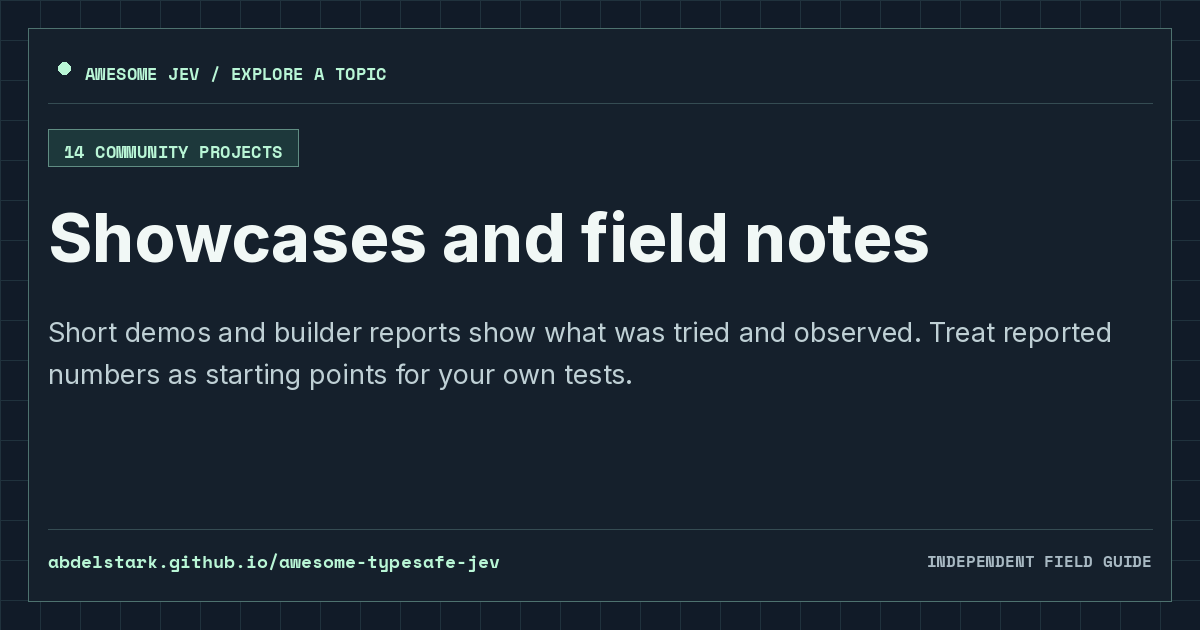
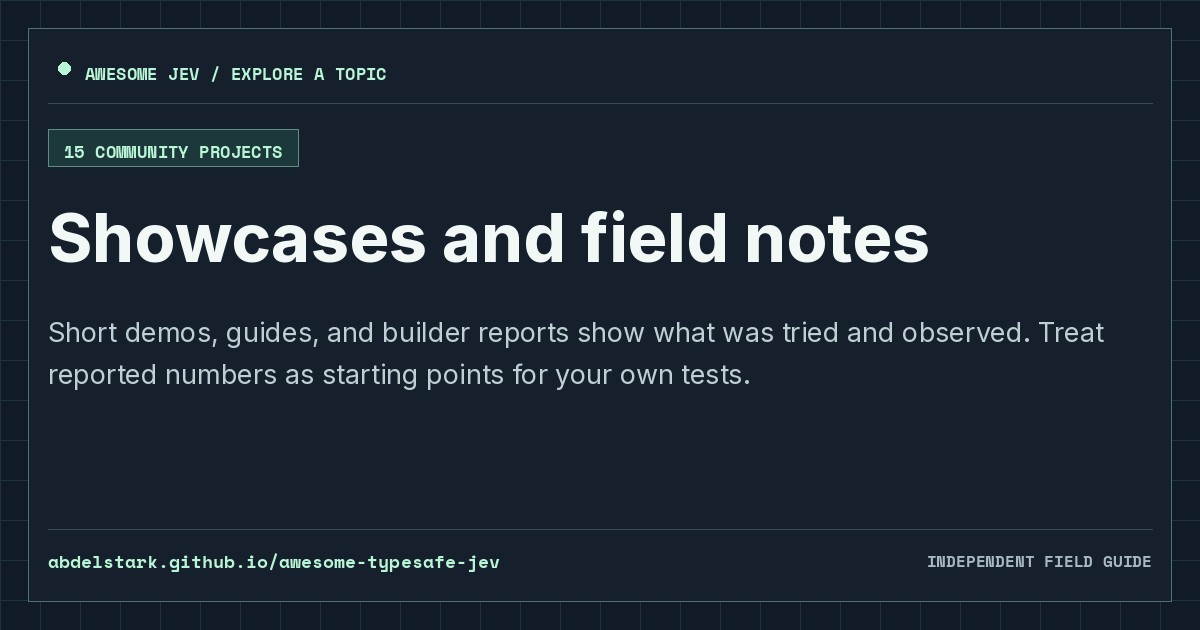
Integrate reviewed community project PRs

Changed region(s): [[0.0308, 0.573, 0.6167, 0.6333], [0.185, 0.5127, 0.925, 0.5429]]

diff --git a/projects/site-chriswijnia-com-lab-jevvie.html b/projects/site-chriswijnia-com-lab-jevvie.html
@@ -1,20 +1,16 @@
 ---
 layout: "resource"
-title: "jev-skip | Awesome Jev"
-description: "Browser extension that reads the YouTube caption track and paints a per-segment sponsor probability on the seek bar before the intro ends, with no crowd database; reports catching 77% of SponsorBlock's sponsor seconds across 23 videos at $0.0008 a video."
-permalink: "/projects/gh-valentynkit-jev-skip/"
-resource_name: "jev-skip"
-resource_slug: "gh-valentynkit-jev-skip"
-resource_url: "https://github.com/valentynkit/jev-skip"
-description_markdown: "Browser extension that reads the YouTube caption track and paints a per-segment sponsor probability on the seek bar before the intro ends, with no crowd database; reports catching 77% of SponsorBlock's sponsor seconds across 23 videos at $0.0008 a video."
+title: "Jevvie | Awesome Jev"
+description: "Page companion: the page offers its actions as WebMCP tools, and one Jev Choice picks the action a visitor's request means (with a Choice per argument asked alongside), asking back when the top two are close; a voxel character then hops to the button and does it (source). The visitor's request and offered tool descriptions go to Vercel AI Gateway or TypeSafe for the judgment."
+permalink: "/projects/site-chriswijnia-com-lab-jevvie/"
+resource_name: "Jevvie"
+resource_slug: "site-chriswijnia-com-lab-jevvie"
+resource_url: "https://chriswijnia.com/lab/jevvie"
+description_markdown: "Page companion: the page offers its actions as WebMCP tools, and one Jev `Choice` picks the action a visitor's request means (with a `Choice` per argument asked alongside), asking back when the top two are close; a voxel character then hops to the button and does it ([source](https://github.com/cwdx/jevvie)). The visitor's request and offered tool descriptions go to Vercel AI Gateway or TypeSafe for the judgment."
 category_name: "Browser agents"
 category_id: "browser-agents"
-social_image: "/assets/cards/gh-valentynkit-jev-skip.png"
+social_image: "/assets/cards/site-chriswijnia-com-lab-jevvie.png"
 related:
-  - name: "Jevvie"
-    permalink: "/projects/site-chriswijnia-com-lab-jevvie/"
-    description: "Page companion: the page offers its actions as WebMCP tools, and one Jev Choice picks the action a visitor's request means (with a Choice per argument asked alongside), asking back when the top two are close; a voxel character then hops to the button and does it (source). The visitor's request and offered tool descriptions go to Vercel AI Gateway or TypeSafe for the judgment."
-    image: "/assets/cards/site-chriswijnia-com-lab-jevvie.png"
   - name: "PlotVeil"
     permalink: "/projects/gh-dearest-plotveil/"
     description: "Chrome extension (Manifest V3) that covers a YouTube comment while one Jev Noul question decides whether it reveals a concrete plot event, fate, ending or result of the video being watched or of any other title the user chose to protect; the typed question lives in the extension, application code owns the 0.5 / 0.7 / 0.85 threshold, and a failed or quota-rejected check leaves the comment covered rather than revealed. Requests go through the author's Cloudflare Worker, which forwards comment text, video title and channel but not the anonymous install ID; the committed evaluation is a 10-sample hand-written regression set across English, Chinese, Japanese and prompt injection, not a production accuracy measurement. Install PlotVeil."
@@ -23,4 +19,8 @@ related:
     permalink: "/projects/gh-sedum-dev-sedum/"
     description: "Experimental Playwright test tool: in goal mode one Jev Choice per turn picks the next operation (click, type, done or blocked) and its target among the page's elements, authored plain-English steps use a Choice to resolve each element, and a test passes only when a separate authored verify claim clears two Jev Nouls (holds, contradicted) against configurable thresholds. It sends step sentences, bounded element descriptions and page text to TypeSafe or a compatible endpoint you configure (opt-in vision sends screenshots), and its docs note that the scores are not yet calibrated against real pass rates."
     image: "/assets/cards/gh-sedum-dev-sedum.png"
+  - name: "unclutter"
+    permalink: "/projects/gh-kitze-unclutter/"
+    description: "Chrome/Firefox extension that uses Jev through TypeSafe or Vercel AI Gateway to classify bounded page-element snippets, then stores reusable local hiding rules by page template. Paid analysis is manual by default; optional on-visit analysis sends snippets to the selected provider. The API key stays in unencrypted local extension storage."
+    image: "/assets/cards/gh-kitze-unclutter.png"
 ---

diff --git a/projects/gh-xiaooolong-vev.html b/projects/gh-xiaooolong-vev.html
@@ -1,0 +1,26 @@
+---
+layout: "resource"
+title: "Vev | Awesome Jev"
+description: "Independent Jev-style decision server with vision input, fine-tuned from Qwen3.5 4B and 9B, that answers Choice, Score, and Noul questions about text, JSON, and images, with screenshots or photos placed directly in state, through a /v1/systemone-compatible server; the repository has Apache-2.0 code and per-set results on public text and image judgment sets, requests are processed on your own GPU after the weights download from Hugging Face, and the weights are CC BY-NC 4.0, for non-commercial use only."
+permalink: "/projects/gh-xiaooolong-vev/"
+resource_name: "Vev"
+resource_slug: "gh-xiaooolong-vev"
+resource_url: "https://github.com/Xiaooolong/vev"
+description_markdown: "Independent Jev-style decision server with vision input, fine-tuned from Qwen3.5 4B and 9B, that answers Choice, Score, and Noul questions about text, JSON, and images, with screenshots or photos placed directly in `state`, through a `/v1/systemone`-compatible server; the repository has Apache-2.0 code and per-set results on public text and image judgment sets, requests are processed on your own GPU after the weights download from Hugging Face, and the weights are CC BY-NC 4.0, for non-commercial use only."
+category_name: "Evaluations and independent research"
+category_id: "evaluations-and-independent-research"
+social_image: "/assets/cards/gh-xiaooolong-vev.png"
+related:
+  - name: "Von"
+    permalink: "/projects/gh-wfzyx-von/"
+    description: "Open local Choice, Noul, and Score model with public weights, training code, and a System One-shaped API. Benchmark comparisons are author-reported: its README gives a 91.23% accuracy headline without a matching result artifact in the repo, while its 49-task table reports 71.5% macro accuracy."
+    image: "/assets/cards/gh-wfzyx-von.png"
+  - name: "WebJev"
+    permalink: "/projects/gh-lexmount-webjev/"
+    description: "Apache-2.0 open-weight decision model for browser agents (a Qwen3.5-35B-A3B fine-tune) that answers Choice, Noul, and Score through a Jev-compatible /v1/systemone API and ships its training recipe, live-web training data, and a deterministic-verifier evaluation on 125 hand-picked real-website tasks. Its authors report 47/122 gradable successes versus 20/120 for Jev 1.13 inside the same agent, and 83.72% versus 84.70% mean accuracy on eight single-step typed-decision benchmarks; the live-web runs happened on different days and had different gradable subsets. It is a separate Jev-style alternative, not hosted Jev: self-hosting the weights needs one 80 GB GPU, and page observations go to the configured decision endpoint and text model."
+    image: "/assets/cards/gh-lexmount-webjev.png"
+  - name: "When a Judgment Layer’s Self-Reported Fields Lie"
+    permalink: "/projects/site-doi-org-10-5281-zenodo-22901853/"
+    description: "Independent measurement of Jev’s typed decisions as one of three judgment layers run on identical items (Laya locally, Jev and a frontier model remotely), with per-call ledger-based cost accounting and Murphy/Brier/ECE calibration against binary ground truth; the Jev-specific findings are a verdict vocabulary reaching three values where six are documented, and a sufficient field that does not separate thin evidence from contradictory evidence, and the claim about contradiction rests on seven live readings that have no JSON artifact behind them, which the write-up states in its own errata rather than leaving to be discovered."
+    image: "/assets/cards/site-doi-org-10-5281-zenodo-22901853.png"
+---

diff --git a/projects/gh-sedum-dev-sedum.html b/projects/gh-sedum-dev-sedum.html
@@ -1,0 +1,26 @@
+---
+layout: "resource"
+title: "Sedum | Awesome Jev"
+description: "Experimental Playwright test tool: in goal mode one Jev Choice per turn picks the next operation (click, type, done or blocked) and its target among the page's elements, authored plain-English steps use a Choice to resolve each element, and a test passes only when a separate authored verify claim clears two Jev Nouls (holds, contradicted) against configurable thresholds. It sends step sentences, bounded element descriptions and page text to TypeSafe or a compatible endpoint you configure (opt-in vision sends screenshots), and its docs note that the scores are not yet calibrated against real pass rates."
+permalink: "/projects/gh-sedum-dev-sedum/"
+resource_name: "Sedum"
+resource_slug: "gh-sedum-dev-sedum"
+resource_url: "https://github.com/sedum-dev/sedum"
+description_markdown: "Experimental Playwright test tool: in goal mode one Jev Choice per turn picks the next operation (click, type, done or blocked) and its target among the page's elements, authored plain-English steps use a Choice to resolve each element, and a test passes only when a separate authored verify claim clears two Jev Nouls (holds, contradicted) against configurable thresholds. It sends step sentences, bounded element descriptions and page text to TypeSafe or a compatible endpoint you configure (opt-in vision sends screenshots), and its docs note that the scores are not yet calibrated against real pass rates."
+category_name: "Browser agents"
+category_id: "browser-agents"
+social_image: "/assets/cards/gh-sedum-dev-sedum.png"
+related:
+  - name: "unclutter"
+    permalink: "/projects/gh-kitze-unclutter/"
+    description: "Chrome/Firefox extension that uses Jev through TypeSafe or Vercel AI Gateway to classify bounded page-element snippets, then stores reusable local hiding rules by page template. Paid analysis is manual by default; optional on-visit analysis sends snippets to the selected provider. The API key stays in unencrypted local extension storage."
+    image: "/assets/cards/gh-kitze-unclutter.png"
+  - name: "voice-browser"
+    permalink: "/projects/gh-moritzkremb-jev-voice-browser/"
+    description: "Local voice-controlled Playwright browser: Jev chooses a typed intent and target from speech and a bounded page snapshot, while code applies confidence gates and asks for confirmation before actions it classifies as destructive. The Web Speech API sends audio to Google, and transcripts, page context, and recent actions go to TypeSafe; the author's 34-case integration result uses captured fixtures, not arbitrary websites."
+    image: "/assets/cards/gh-moritzkremb-jev-voice-browser.png"
+  - name: "Cline Jev Browser"
+    permalink: "/projects/gh-cline-plugins-tree-main-plugins-jev-browser/"
+    description: "Cline plugin that delegates bounded Playwright browser steps to Jev through Vercel AI Gateway using structured DOM observations; a separate text model fills form values, page text and field values go to Gateway, and its review instruction is model guidance rather than an enforced safety boundary."
+    image: "/assets/cards/gh-cline-plugins-tree-main-plugins-jev-browser.png"
+---

diff --git a/categories/browser-agents.html b/categories/browser-agents.html
@@ -52,11 +52,21 @@ resources:
     description: "Browser extension that reads the YouTube caption track and paints a per-segment sponsor probability on the seek bar before the intro ends, with no crowd database; reports catching 77% of SponsorBlock's sponsor seconds across 23 videos at $0.0008 a video."
     permalink: "/projects/gh-valentynkit-jev-skip/"
     image: "/assets/cards/gh-valentynkit-jev-skip.png"
+  - name: "Jevvie"
+    url: "https://chriswijnia.com/lab/jevvie"
+    description: "Page companion: the page offers its actions as WebMCP tools, and one Jev Choice picks the action a visitor's request means (with a Choice per argument asked alongside), asking back when the top two are close; a voxel character then hops to the button and does it (source). The visitor's request and offered tool descriptions go to Vercel AI Gateway or TypeSafe for the judgment."
+    permalink: "/projects/site-chriswijnia-com-lab-jevvie/"
+    image: "/assets/cards/site-chriswijnia-com-lab-jevvie.png"
   - name: "PlotVeil"
     url: "https://github.com/Dearest/plotveil"
     description: "Chrome extension (Manifest V3) that covers a YouTube comment while one Jev Noul question decides whether it reveals a concrete plot event, fate, ending or result of the video being watched or of any other title the user chose to protect; the typed question lives in the extension, application code owns the 0.5 / 0.7 / 0.85 threshold, and a failed or quota-rejected check leaves the comment covered rather than revealed. Requests go through the author's Cloudflare Worker, which forwards comment text, video title and channel but not the anonymous install ID; the committed evaluation is a 10-sample hand-written regression set across English, Chinese, Japanese and prompt injection, not a production accuracy measurement. Install PlotVeil."
     permalink: "/projects/gh-dearest-plotveil/"
     image: "/assets/cards/gh-dearest-plotveil.png"
+  - name: "Sedum"
+    url: "https://github.com/sedum-dev/sedum"
+    description: "Experimental Playwright test tool: in goal mode one Jev Choice per turn picks the next operation (click, type, done or blocked) and its target among the page's elements, authored plain-English steps use a Choice to resolve each element, and a test passes only when a separate authored verify claim clears two Jev Nouls (holds, contradicted) against configurable thresholds. It sends step sentences, bounded element descriptions and page text to TypeSafe or a compatible endpoint you configure (opt-in vision sends screenshots), and its docs note that the scores are not yet calibrated against real pass rates."
+    permalink: "/projects/gh-sedum-dev-sedum/"
+    image: "/assets/cards/gh-sedum-dev-sedum.png"
   - name: "unclutter"
     url: "https://github.com/kitze/unclutter"
     description: "Chrome/Firefox extension that uses Jev through TypeSafe or Vercel AI Gateway to classify bounded page-element snippets, then stores reusable local hiding rules by page template. Paid analysis is manual by default; optional on-visit analysis sends snippets to the selected provider. The API key stays in unencrypted local extension storage."

diff --git a/categories/evaluations-and-independent-research.html b/categories/evaluations-and-independent-research.html
@@ -219,7 +219,7 @@ resources:
     image: "/assets/cards/gh-rizzo-ai-academy-rizzo-flow.png"
   - name: "RSI-Jev"
     url: "https://github.com/Shanghua-Gao/RSI-Jev"
-    description: "Jev-like 2B open model trained by a recursively self-improving AI research system, with published version notes including failed experiments (MIT code, Apache-2.0 weights); it returns choice, score, and noul probabilities through a /v1/systemone-compatible server. Its authors report 0.791 on typed-decisions after training on that benchmark's train split and 0.774 on 873 held-out scienthoon tickets; MMLU-Pro remains a weakness at 0.383 on a 1,000-question subset."
+    description: "Jev-like 2B open model trained by a recursively self-improving AI research system, with published version notes including failed experiments (MIT code, Apache-2.0 weights); it returns choice, score, and noul probabilities about text or, since v4.0-VL, up to four images through a /v1/systemone-compatible server. Its authors report 86.6 AUROC zero-shot on 2,162 VisA inspection photos; one model and seed were tested, documents over 2,048 tokens lose their beginning, and it rarely picks an \"unknown\" option."
     permalink: "/projects/gh-shanghua-gao-rsi-jev/"
     image: "/assets/cards/gh-shanghua-gao-rsi-jev.png"
   - name: "ruling"
@@ -257,6 +257,11 @@ resources:
     description: "Apache-2.0 118M multilingual bi-encoder for Choice, Score, and Noul on a System One-compatible endpoint, with temperature scaling and optional split-conformal abstention whose coverage depends on its calibration assumptions; it can run locally on CPU or in a browser through ONNX, and the author's reported calibration and typed-decision results are task-specific, including a lower score than Laya on the published typed-decision suite."
     permalink: "/projects/gh-manavarya09-verdict/"
     image: "/assets/cards/gh-manavarya09-verdict.png"
+  - name: "Vev"
+    url: "https://github.com/Xiaooolong/vev"
+    description: "Independent Jev-style decision server with vision input, fine-tuned from Qwen3.5 4B and 9B, that answers Choice, Score, and Noul questions about text, JSON, and images, with screenshots or photos placed directly in state, through a /v1/systemone-compatible server; the repository has Apache-2.0 code and per-set results on public text and image judgment sets, requests are processed on your own GPU after the weights download from Hugging Face, and the weights are CC BY-NC 4.0, for non-commercial use only."
+    permalink: "/projects/gh-xiaooolong-vev/"
+    image: "/assets/cards/gh-xiaooolong-vev.png"
   - name: "Von"
     url: "https://github.com/wfzyx/von"
     description: "Open local Choice, Noul, and Score model with public weights, training code, and a System One-shaped API. Benchmark comparisons are author-reported: its README gives a 91.23% accuracy headline without a matching result artifact in the repo, while its 49-task table reports 71.5% macro accuracy."

diff --git a/projects/gh-manavarya09-verdict.html b/projects/gh-manavarya09-verdict.html
@@ -11,6 +11,10 @@ category_name: "Evaluations and independent research"
 category_id: "evaluations-and-independent-research"
 social_image: "/assets/cards/gh-manavarya09-verdict.png"
 related:
+  - name: "Vev"
+    permalink: "/projects/gh-xiaooolong-vev/"
+    description: "Independent Jev-style decision server with vision input, fine-tuned from Qwen3.5 4B and 9B, that answers Choice, Score, and Noul questions about text, JSON, and images, with screenshots or photos placed directly in state, through a /v1/systemone-compatible server; the repository has Apache-2.0 code and per-set results on public text and image judgment sets, requests are processed on your own GPU after the weights download from Hugging Face, and the weights are CC BY-NC 4.0, for non-commercial use only."
+    image: "/assets/cards/gh-xiaooolong-vev.png"
   - name: "Von"
     permalink: "/projects/gh-wfzyx-von/"
     description: "Open local Choice, Noul, and Score model with public weights, training code, and a System One-shaped API. Benchmark comparisons are author-reported: its README gives a 91.23% accuracy headline without a matching result artifact in the repo, while its 49-task table reports 71.5% macro accuracy."
@@ -19,8 +23,4 @@ related:
     permalink: "/projects/gh-lexmount-webjev/"
     description: "Apache-2.0 open-weight decision model for browser agents (a Qwen3.5-35B-A3B fine-tune) that answers Choice, Noul, and Score through a Jev-compatible /v1/systemone API and ships its training recipe, live-web training data, and a deterministic-verifier evaluation on 125 hand-picked real-website tasks. Its authors report 47/122 gradable successes versus 20/120 for Jev 1.13 inside the same agent, and 83.72% versus 84.70% mean accuracy on eight single-step typed-decision benchmarks; the live-web runs happened on different days and had different gradable subsets. It is a separate Jev-style alternative, not hosted Jev: self-hosting the weights needs one 80 GB GPU, and page observations go to the configured decision endpoint and text model."
     image: "/assets/cards/gh-lexmount-webjev.png"
-  - name: "When a Judgment Layer’s Self-Reported Fields Lie"
-    permalink: "/projects/site-doi-org-10-5281-zenodo-22901853/"
-    description: "Independent measurement of Jev’s typed decisions as one of three judgment layers run on identical items (Laya locally, Jev and a frontier model remotely), with per-call ledger-based cost accounting and Murphy/Brier/ECE calibration against binary ground truth; the Jev-specific findings are a verdict vocabulary reaching three values where six are documented, and a sufficient field that does not separate thin evidence from contradictory evidence, and the claim about contradiction rests on seven live readings that have no JSON artifact behind them, which the write-up states in its own errata rather than leaving to be discovered."
-    image: "/assets/cards/site-doi-org-10-5281-zenodo-22901853.png"
 ---

diff --git a/projects/gh-iammrduncan-typesafe-ai-benchmark.html b/projects/gh-iammrduncan-typesafe-ai-benchmark.html
@@ -15,12 +15,12 @@ related:
     permalink: "/projects/gh-manavarya09-verdict/"
     description: "Apache-2.0 118M multilingual bi-encoder for Choice, Score, and Noul on a System One-compatible endpoint, with temperature scaling and optional split-conformal abstention whose coverage depends on its calibration assumptions; it can run locally on CPU or in a browser through ONNX, and the author's reported calibration and typed-decision results are task-specific, including a lower score than Laya on the published typed-decision suite."
     image: "/assets/cards/gh-manavarya09-verdict.png"
+  - name: "Vev"
+    permalink: "/projects/gh-xiaooolong-vev/"
+    description: "Independent Jev-style decision server with vision input, fine-tuned from Qwen3.5 4B and 9B, that answers Choice, Score, and Noul questions about text, JSON, and images, with screenshots or photos placed directly in state, through a /v1/systemone-compatible server; the repository has Apache-2.0 code and per-set results on public text and image judgment sets, requests are processed on your own GPU after the weights download from Hugging Face, and the weights are CC BY-NC 4.0, for non-commercial use only."
+    image: "/assets/cards/gh-xiaooolong-vev.png"
   - name: "Von"
     permalink: "/projects/gh-wfzyx-von/"
     description: "Open local Choice, Noul, and Score model with public weights, training code, and a System One-shaped API. Benchmark comparisons are author-reported: its README gives a 91.23% accuracy headline without a matching result artifact in the repo, while its 49-task table reports 71.5% macro accuracy."
     image: "/assets/cards/gh-wfzyx-von.png"
-  - name: "WebJev"
-    permalink: "/projects/gh-lexmount-webjev/"
-    description: "Apache-2.0 open-weight decision model for browser agents (a Qwen3.5-35B-A3B fine-tune) that answers Choice, Noul, and Score through a Jev-compatible /v1/systemone API and ships its training recipe, live-web training data, and a deterministic-verifier evaluation on 125 hand-picked real-website tasks. Its authors report 47/122 gradable successes versus 20/120 for Jev 1.13 inside the same agent, and 83.72% versus 84.70% mean accuracy on eight single-step typed-decision benchmarks; the live-web runs happened on different days and had different gradable subsets. It is a separate Jev-style alternative, not hosted Jev: self-hosting the weights needs one 80 GB GPU, and page observations go to the configured decision endpoint and text model."
-    image: "/assets/cards/gh-lexmount-webjev.png"
 ---

diff --git a/projects/gh-shanghua-gao-rsi-jev.html b/projects/gh-shanghua-gao-rsi-jev.html
@@ -1,12 +1,12 @@
 ---
 layout: "resource"
 title: "RSI-Jev | Awesome Jev"
-description: "Jev-like 2B open model trained by a recursively self-improving AI research system, with published version notes including failed experiments (MIT code, Apache-2.0 weights); it returns choice, score, and noul probabilities through a /v1/systemone-compatible server. Its authors report 0.791 on typed-decisions after training on that benchmark's train split and 0.774 on 873 held-out scienthoon tickets; MMLU-Pro remains a weakness at 0.383 on a 1,000-question subset."
+description: "Jev-like 2B open model trained by a recursively self-improving AI research system, with published version notes including failed experiments (MIT code, Apache-2.0 weights); it returns choice, score, and noul probabilities about text or, since v4.0-VL, up to four images through a /v1/systemone-compatible server. Its authors report 86.6 AUROC zero-shot on 2,162 VisA inspection photos; one model and seed were tested, documents over 2,048 tokens lose their beginning, and it rarely picks an \"unknown\" option."
 permalink: "/projects/gh-shanghua-gao-rsi-jev/"
 resource_name: "RSI-Jev"
 resource_slug: "gh-shanghua-gao-rsi-jev"
 resource_url: "https://github.com/Shanghua-Gao/RSI-Jev"
-description_markdown: "Jev-like 2B open model trained by a recursively self-improving AI research system, with published version notes including failed experiments (MIT code, Apache-2.0 weights); it returns `choice`, `score`, and `noul` probabilities through a `/v1/systemone`-compatible server. Its authors report 0.791 on typed-decisions after training on that benchmark's train split and 0.774 on 873 held-out scienthoon tickets; MMLU-Pro remains a weakness at 0.383 on a 1,000-question subset."
+description_markdown: "Jev-like 2B open model trained by a recursively self-improving AI research system, with published version notes including failed experiments (MIT code, Apache-2.0 weights); it returns `choice`, `score`, and `noul` probabilities about text or, since v4.0-VL, up to four images through a `/v1/systemone`-compatible server. Its authors report 86.6 AUROC zero-shot on 2,162 VisA inspection photos; one model and seed were tested, documents over 2,048 tokens lose their beginning, and it rarely picks an \"unknown\" option."
 category_name: "Evaluations and independent research"
 category_id: "evaluations-and-independent-research"
 social_image: "/assets/cards/gh-shanghua-gao-rsi-jev.png"

diff --git a/projects/gh-dearest-plotveil.html b/projects/gh-dearest-plotveil.html
@@ -11,6 +11,10 @@ category_name: "Browser agents"
 category_id: "browser-agents"
 social_image: "/assets/cards/gh-dearest-plotveil.png"
 related:
+  - name: "Sedum"
+    permalink: "/projects/gh-sedum-dev-sedum/"
+    description: "Experimental Playwright test tool: in goal mode one Jev Choice per turn picks the next operation (click, type, done or blocked) and its target among the page's elements, authored plain-English steps use a Choice to resolve each element, and a test passes only when a separate authored verify claim clears two Jev Nouls (holds, contradicted) against configurable thresholds. It sends step sentences, bounded element descriptions and page text to TypeSafe or a compatible endpoint you configure (opt-in vision sends screenshots), and its docs note that the scores are not yet calibrated against real pass rates."
+    image: "/assets/cards/gh-sedum-dev-sedum.png"
   - name: "unclutter"
     permalink: "/projects/gh-kitze-unclutter/"
     description: "Chrome/Firefox extension that uses Jev through TypeSafe or Vercel AI Gateway to classify bounded page-element snippets, then stores reusable local hiding rules by page template. Paid analysis is manual by default; optional on-visit analysis sends snippets to the selected provider. The API key stays in unencrypted local extension storage."
@@ -19,8 +23,4 @@ related:
     permalink: "/projects/gh-moritzkremb-jev-voice-browser/"
     description: "Local voice-controlled Playwright browser: Jev chooses a typed intent and target from speech and a bounded page snapshot, while code applies confidence gates and asks for confirmation before actions it classifies as destructive. The Web Speech API sends audio to Google, and transcripts, page context, and recent actions go to TypeSafe; the author's 34-case integration result uses captured fixtures, not arbitrary websites."
     image: "/assets/cards/gh-moritzkremb-jev-voice-browser.png"
-  - name: "Cline Jev Browser"
-    permalink: "/projects/gh-cline-plugins-tree-main-plugins-jev-browser/"
-    description: "Cline plugin that delegates bounded Playwright browser steps to Jev through Vercel AI Gateway using structured DOM observations; a separate text model fills form values, page text and field values go to Gateway, and its review instruction is model guidance rather than an enforced safety boundary."
-    image: "/assets/cards/gh-cline-plugins-tree-main-plugins-jev-browser.png"
 ---

diff --git a/projects/gh-forvela-jev-agent-browser.html b/projects/gh-forvela-jev-agent-browser.html
@@ -15,12 +15,12 @@ related:
     permalink: "/projects/gh-valentynkit-jev-skip/"
     description: "Browser extension that reads the YouTube caption track and paints a per-segment sponsor probability on the seek bar before the intro ends, with no crowd database; reports catching 77% of SponsorBlock's sponsor seconds across 23 videos at $0.0008 a video."
     image: "/assets/cards/gh-valentynkit-jev-skip.png"
+  - name: "Jevvie"
+    permalink: "/projects/site-chriswijnia-com-lab-jevvie/"
+    description: "Page companion: the page offers its actions as WebMCP tools, and one Jev Choice picks the action a visitor's request means (with a Choice per argument asked alongside), asking back when the top two are close; a voxel character then hops to the button and does it (source). The visitor's request and offered tool descriptions go to Vercel AI Gateway or TypeSafe for the judgment."
+    image: "/assets/cards/site-chriswijnia-com-lab-jevvie.png"
   - name: "PlotVeil"
     permalink: "/projects/gh-dearest-plotveil/"
     description: "Chrome extension (Manifest V3) that covers a YouTube comment while one Jev Noul question decides whether it reveals a concrete plot event, fate, ending or result of the video being watched or of any other title the user chose to protect; the typed question lives in the extension, application code owns the 0.5 / 0.7 / 0.85 threshold, and a failed or quota-rejected check leaves the comment covered rather than revealed. Requests go through the author's Cloudflare Worker, which forwards comment text, video title and channel but not the anonymous install ID; the committed evaluation is a 10-sample hand-written regression set across English, Chinese, Japanese and prompt injection, not a production accuracy measurement. Install PlotVeil."
     image: "/assets/cards/gh-dearest-plotveil.png"
-  - name: "unclutter"
-    permalink: "/projects/gh-kitze-unclutter/"
-    description: "Chrome/Firefox extension that uses Jev through TypeSafe or Vercel AI Gateway to classify bounded page-element snippets, then stores reusable local hiding rules by page template. Paid analysis is manual by default; optional on-visit analysis sends snippets to the selected provider. The API key stays in unencrypted local extension storage."
-    image: "/assets/cards/gh-kitze-unclutter.png"
 ---

diff --git a/projects/gh-vicfei-awesome-jev-prompts.html b/projects/gh-vicfei-awesome-jev-prompts.html
@@ -1,0 +1,26 @@
+---
+layout: "resource"
+title: "awesome-jev-prompts | Awesome Jev"
+description: "Independent bilingual (English/Chinese) CC0 catalog of 43 Jev Choice, Score, and Noul question-design patterns plus 10 anti-patterns, with templates, sources, threshold notes, and failure modes; examples and thresholds still need evaluation on your own data."
+permalink: "/projects/gh-vicfei-awesome-jev-prompts/"
+resource_name: "awesome-jev-prompts"
+resource_slug: "gh-vicfei-awesome-jev-prompts"
+resource_url: "https://github.com/vicfei/awesome-jev-prompts"
+description_markdown: "Independent bilingual (English/Chinese) CC0 catalog of 43 Jev Choice, Score, and Noul question-design patterns plus 10 anti-patterns, with templates, sources, threshold notes, and failure modes; examples and thresholds still need evaluation on your own data."
+category_name: "Showcases and field notes"
+category_id: "showcases-and-field-notes"
+social_image: "/assets/cards/gh-vicfei-awesome-jev-prompts.png"
+related:
+  - name: "Browser Use + Jev"
+    permalink: "/projects/site-x-com-gregpr07-status-2100411066966749359/"
+    description: "Gregor Zunic's real-time flight-search demo and short description of the dynamic DOM action space."
+    image: "/assets/cards/site-x-com-gregpr07-status-2100411066966749359.png"
+  - name: "Free JEV API Guide"
+    permalink: "/projects/site-jevapi-io/"
+    description: "Independent first-request walkthrough with runnable examples of typed JEV decisions; example calls send supplied state through BeatAPI, while the guide itself runs no inference."
+    image: "/assets/cards/site-jevapi-io.png"
+  - name: "Internal classifier field note"
+    permalink: "/projects/site-x-com-identitytorn-status-2100475121324728615/"
+    description: "A builder's early matched-precision comparison against a private fine-tuned Qwen classifier; useful anecdotal evidence, not a reproducible benchmark."
+    image: "/assets/cards/site-x-com-identitytorn-status-2100475121324728615.png"
+---

diff --git a/projects/gh-browser-use-jev-ultrafast.html b/projects/gh-browser-use-jev-ultrafast.html
@@ -19,8 +19,8 @@ related:
     permalink: "/projects/gh-valentynkit-jev-skip/"
     description: "Browser extension that reads the YouTube caption track and paints a per-segment sponsor probability on the seek bar before the intro ends, with no crowd database; reports catching 77% of SponsorBlock's sponsor seconds across 23 videos at $0.0008 a video."
     image: "/assets/cards/gh-valentynkit-jev-skip.png"
-  - name: "PlotVeil"
-    permalink: "/projects/gh-dearest-plotveil/"
-    description: "Chrome extension (Manifest V3) that covers a YouTube comment while one Jev Noul question decides whether it reveals a concrete plot event, fate, ending or result of the video being watched or of any other title the user chose to protect; the typed question lives in the extension, application code owns the 0.5 / 0.7 / 0.85 threshold, and a failed or quota-rejected check leaves the comment covered rather than revealed. Requests go through the author's Cloudflare Worker, which forwards comment text, video title and channel but not the anonymous install ID; the committed evaluation is a 10-sample hand-written regression set across English, Chinese, Japanese and prompt injection, not a production accuracy measurement. Install PlotVeil."
-    image: "/assets/cards/gh-dearest-plotveil.png"
+  - name: "Jevvie"
+    permalink: "/projects/site-chriswijnia-com-lab-jevvie/"
+    description: "Page companion: the page offers its actions as WebMCP tools, and one Jev Choice picks the action a visitor's request means (with a Choice per argument asked alongside), asking back when the top two are close; a voxel character then hops to the button and does it (source). The visitor's request and offered tool descriptions go to Vercel AI Gateway or TypeSafe for the judgment."
+    image: "/assets/cards/site-chriswijnia-com-lab-jevvie.png"
 ---
